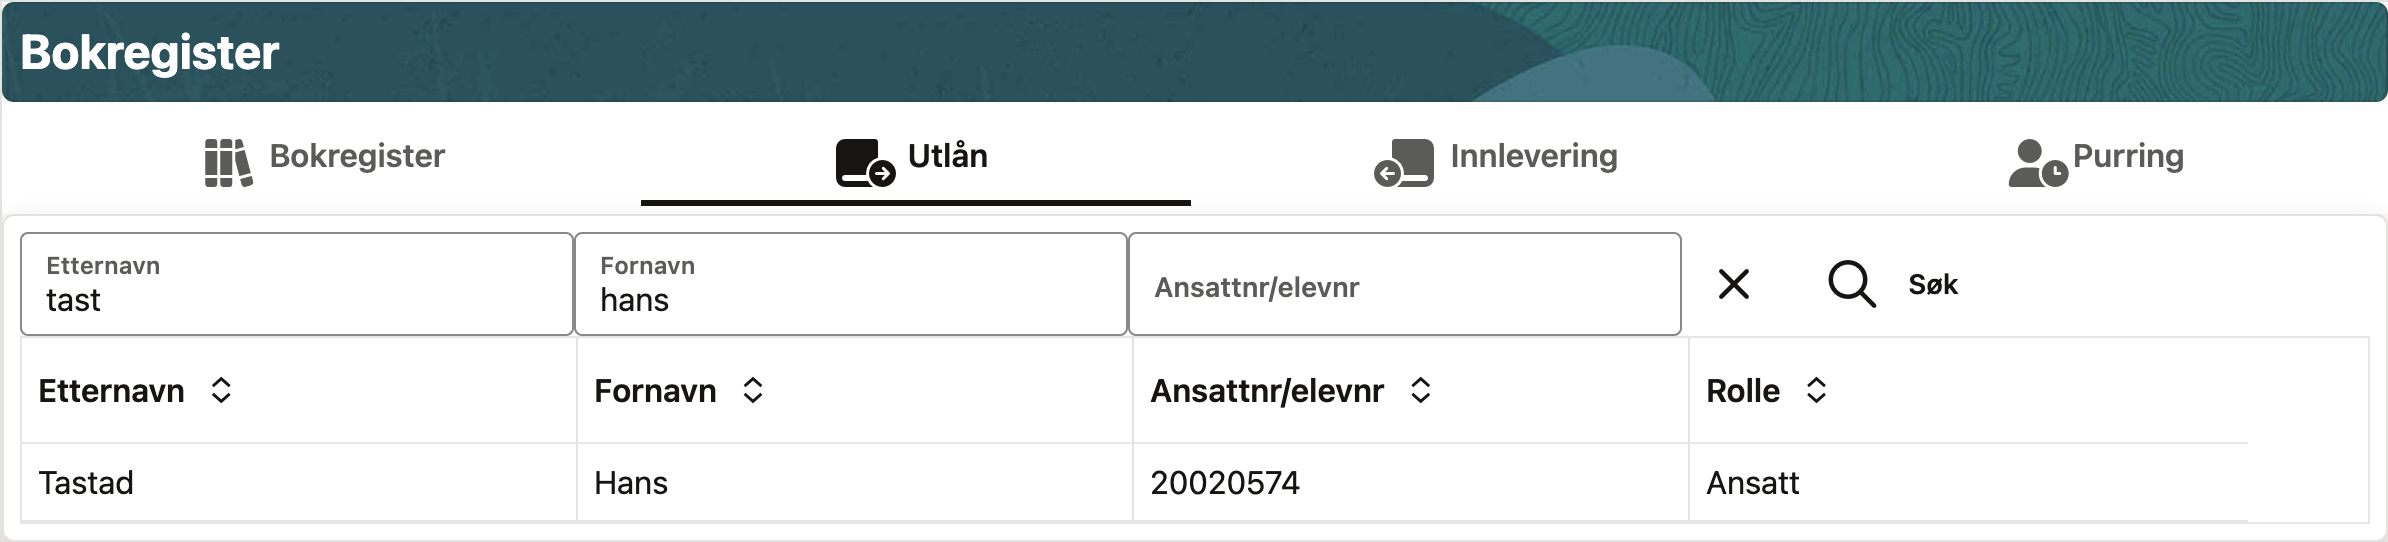
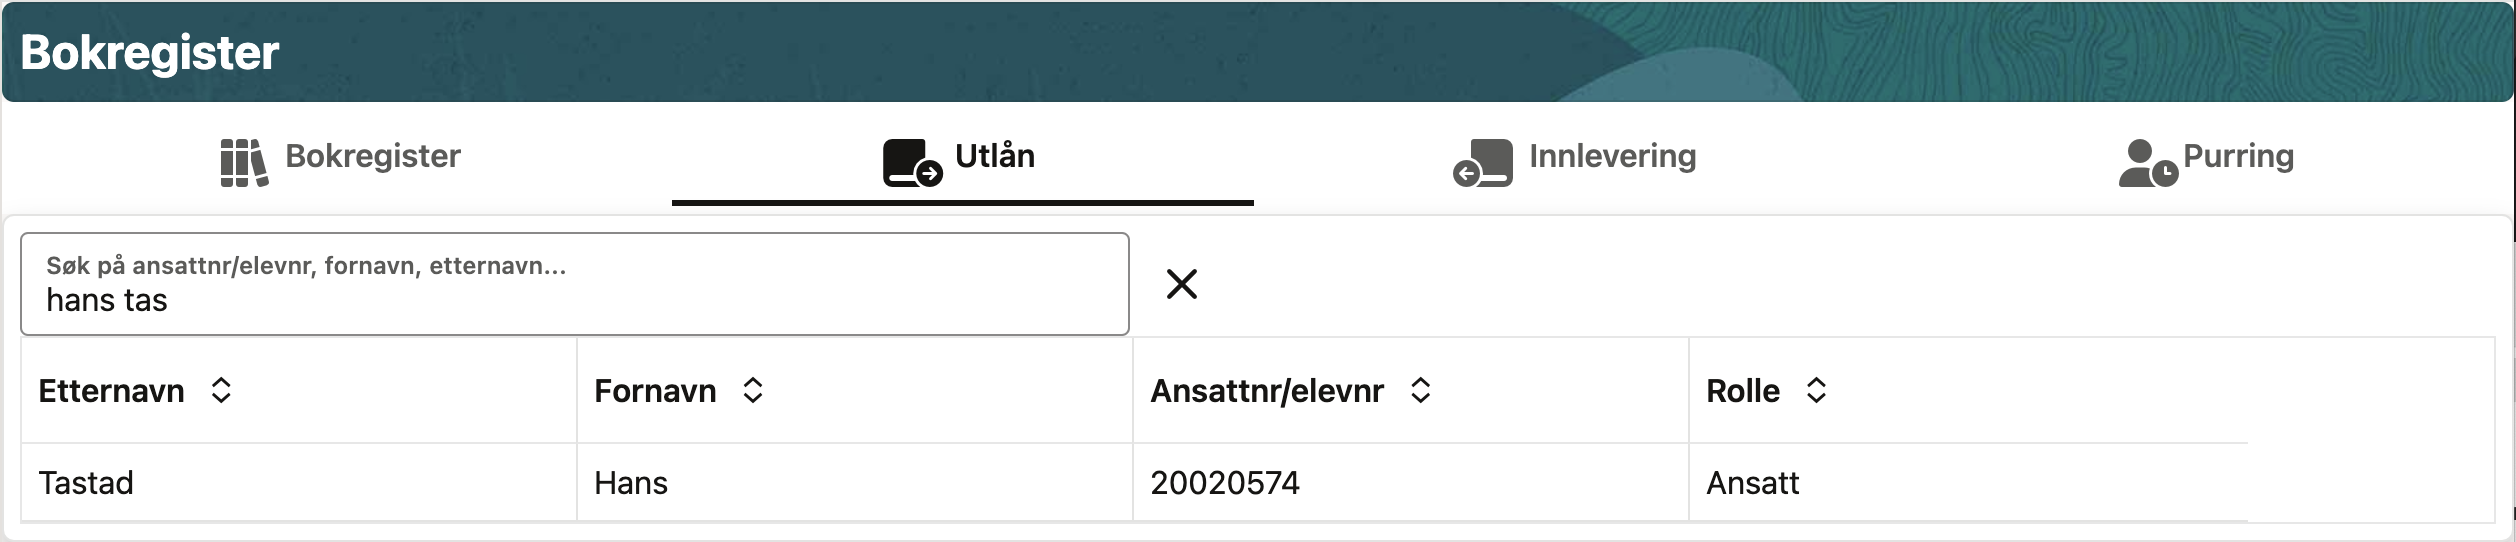
Oppdatering av tekst og bilder

diff --git a/iskole/docs/ut_bibliotek.md b/iskole/docs/ut_bibliotek.md
@@ -25,11 +25,11 @@ bøker og utlån.
 
 Bokregisteret er designet for at man effektivt skal kunne registrere nye bøker.
 For å registrere en ny bok gjøres følgende:
-1. Klikk på Legg til.
+1. Klikk på «Legg til tittel».
 2. Skann boken eller skriv inn ISBN-nummer og trykk Søk. iSkole gjør et
-oppslag mot Alma biblioteksystem hos Bibsys (https://www.bibsys.no/produktertjenester/tjenester/bibsys-biblioteksystem).
+oppslag mot Alma biblioteksystem hos Bibsys (https://sikt.no/tjenester/alma-biblioteksystem).
 3. Hvis boken finnes i Alma, fylles informasjonen om boken automatisk inn. Om ønskelig kan teksten endres. Hvis boken ikke finnes i Alma, må feltene fylles inn manuelt.
-4. Oppgi antall eksemplarer av boken og trykk på knappen «Legg til».
+4. Oppgi antall eksemplarer av boken og trykk på knappen «Lagre».
 5. Skriv ut merkelapper og klistre dem på bøkene. Se avsnitt Utskrift av merkelapper lenger ned i teksten.
 
 Etter at data er lest fra Alma, eller man har fyllt inn informasjonen selv, gjenstår det å fylle inn antall eksamplarer man ønsker å legge inn i 
@@ -49,11 +49,7 @@ for å finne boktittelen man er ute etter.
 2. Et nytt vindu vises og lar deg endre bokinformasjonen.
 
 #### Legg til nye eksemplarer
-Hvis man har fått nye eksemplarer av en bok man allerede har registrert, så kan man raskt legge dem inn ved først å søke opp boktittelen i den øvre
-delen av vinduet ved å benytte seg av ISBN-nummeret, og deretter trykke på knappen _Legg til_ over listen av allerede registrerte eksemplarer. I dialogen
-som kommer frem blir man bedt om å oppgi det hvor mange nye eksemplarer man har. Skriv inn antallet og trykk på _Lagre_.
-
-Alternativt kan man trykke på _Legg til_ over listen av bøker som om boken ikke fantes i registeret, og så søke opp boken ved ISBN-nummeret. Informasjonen om boken hentes da fra iSkole og ikke Alma. Oppgi antall eksemplarer som skal legges til. Også her oppgir man hvor mange nye eksemplarer som skal registreres.
+Hvis man har fått nye eksemplarer av en bok man allerede har registrert, så kan man raskt legge dem inn ved først å søke opp boktittelen og markere den i listen, og deretter trykke på knappen «Legg til eksemplarer» . I dialogen som kommer frem blir man bedt om å oppgi det hvor mange nye eksemplarer man har. Skriv inn antallet og trykk på «Lagre».
 
 #### Utskrift av merkelapper
 Det er to måter å produsere merkelapper på, enten utskrift på en vanlig skriver som har ark med klistrelapper i format 3x8, eller utskrift på en etikettskriver.
@@ -62,7 +58,7 @@ Det er to måter å produsere merkelapper på, enten utskrift på en vanlig skri
 Velg boken i den øverste tabellen og trykk på knappen «Merkelapper (3x8)». Sørg for å ha A4-ark med klistrelapper i skriveren. Utskriften inneholder merkelappene for alle de registrerte eksemplarene av boken.
 
 ##### Utskrift på en etikettskriver
-Man kan velge om man vil skrive ut alle klistrelappene, eller bare et utvalg. For å skrive ut alle velger man boken i tabellen _Titler_ og trykker på knappen «Etikett 29x90mm». Ønsker man kun å skrive ut én, så kan man velge hvilket eksemplar man vil skrive ut for ved å markere det i tabellen _Eksemplarer_ og så trykke på knappen «Etikett 29x90mm» over tabellen. Man må huske å velge etikettskriveren, og hvis den ikke er stillt inn på 29x90mm, må man gjøre det før man sender etikettene til skriveren. Det holder vanligvis å gjøre denne innstillingen én gang. 
+Man kan velge om man vil skrive ut alle klistrelappene, eller enkeltvis. For å skrive ut alle velger man boken i tabellen _Titler_ og trykker på knappen «Etikett 29x90mm». Ønsker man kun å skrive ut én, så kan man velge hvilket eksemplar man vil skrive ut for ved å markere det i tabellen _Eksemplarer_ og så trykke på knappen «Etikett 29x90mm» over tabellen. Man må huske å velge etikettskriveren, og hvis den ikke er stillt inn på 29x90mm, må man gjøre det før man sender etikettene til skriveren. Det holder vanligvis å gjøre denne innstillingen én gang. 
 
 Skjermbildene under viser innstillingene for en vanlig etikettskriver.
 ![bilde](/img/utl_bibliotek_skriverinnstillinger_1.jpeg)
@@ -73,12 +69,13 @@ Skjermbildene under viser innstillingene for en vanlig etikettskriver.
 Bøker kan lånes ut til både elever og ansatte. Hvis elev- eller ansattbevis med strekkode er skrevet ut fra iSkole, kan disse benyttes for å søke opp låntageren. Ellers kan man søke ved å skrive inn deler av fornavnet eller etternavnet. Merk at om man benytter feltet for _Ansattnr/elevnr_ så vil det overstyre og ingorere hva som måtte være ført inn i feltene _Etternavn_ og _Fornavn_.
 
 
-1. Sett markøren i feltet Ansattnr/elevnr øverst på siden.
+1. Sett markøren i søkefeltet øverst på siden.
 2. Skann strekkoden på skole-/ansattbevis. Bilde og informasjon om personen vises.
-3. Trykk på knappen Legg til — et vindu for å registrere utlån dukker opp.
-4. Ulån av bøker blir automatisk registrert ved skanning av etiketten, skrevet ut fra iSkole og klistret på boken. Hvis man ønsker å registrere en annen innleveringsdato eller en merknad, må denne fylles inn før boken skannes.
-5. Sett markøren i feltet Bokeksemplar og skann etiketten. (Alternativt tast inn nummeret og klikk knappen «Registrer utlån».) 
-6. Boken legges til med oppgitt innleveringsdato og eventuell merknad. Boken vil bli lagt til listen Historikk for [låntagerens navn].
+3. Trykk på knappen «Registrer utlån» — et vindu for å registrere utlån dukker opp.
+4. Ulån av bøker blir automatisk registrert ved skanning av etiketten, skrevet ut fra iSkole og klistret på boken. Hvis man ønsker å registrere en innleveringsdato eller en merknad, må denne fylles inn før boken skannes.
+5. Sett markøren i feltet _Bokeksemplar_ og skann etiketten. (Alternativt tast inn nummeret og trykk på entertasten.) 
+6. Boken legges til med oppgitt innleveringsdato og eventuell merknad og en bekreftelse vises nedenfor. Boken vil bli lagt til listen _Historikk_ for [låntagerens navn].
+7. Punkt 5 kan gjentas.
 
 ![bilde](/img/utl_bibliotek_utlaan_finn_person.png)
 
@@ -98,7 +95,7 @@ på boken.
 1. Velg arkfanen Innlevering.
 2. Kryss av Lever boken automatisk ved skanning om man ønsker det.
 3. Sett markøren i tekstfeltet Eksemplar# og skann boken. Alternativt skriv inn eksemplarnummeret fra etiketten og klikk knappen Søk.
-4. Informasjon om boken og hvem den er utlånt til vil vises. Boken blir registrert som innlevert.
+4. Informasjon om boken og hvem den er utlånt til vil vises. Boken blir registrert som innlevert om man har valgt automatisk innlevering i punkt 2.
 
 ![bilde](/img/utl_bibliotek_innlevering_bokiformasjon.png)
 
